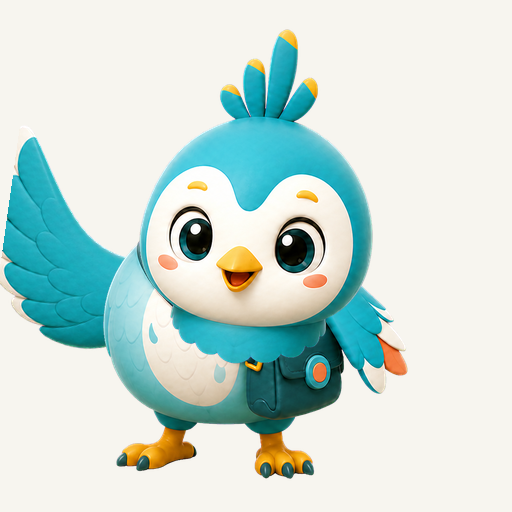
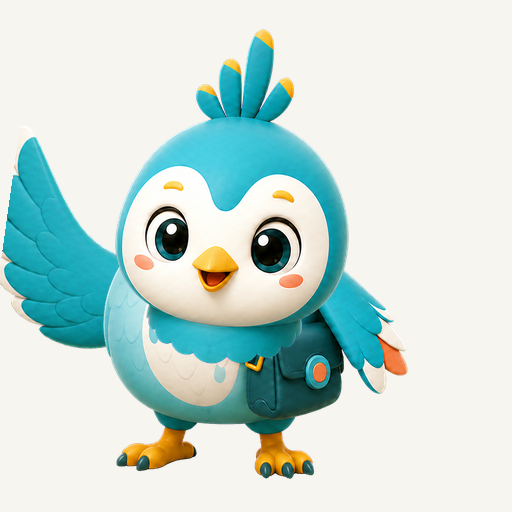
Align mascot head rig with torso

Changed region(s): [[0.2188, 0.0625, 0.75, 0.7188]]

diff --git a/docs/design/mascot-transparent/animation-rig-v4-demo.html b/docs/design/mascot-transparent/animation-rig-v4-demo.html
@@ -110,7 +110,7 @@
       position: absolute;
       inset: 0;
       z-index: 3;
-      transform-origin: 50% 62.1%;
+      transform-origin: 45.31% 62.1%;
     }
 
     .head {
@@ -135,13 +135,13 @@
     }
 
     .lid.left {
-      left: 33.5%;
+      left: 28.8%;
       top: 38.3%;
       rotate: -4deg;
     }
 
     .lid.right {
-      left: 52.4%;
+      left: 47.7%;
       top: 39.2%;
       rotate: 3deg;
     }
